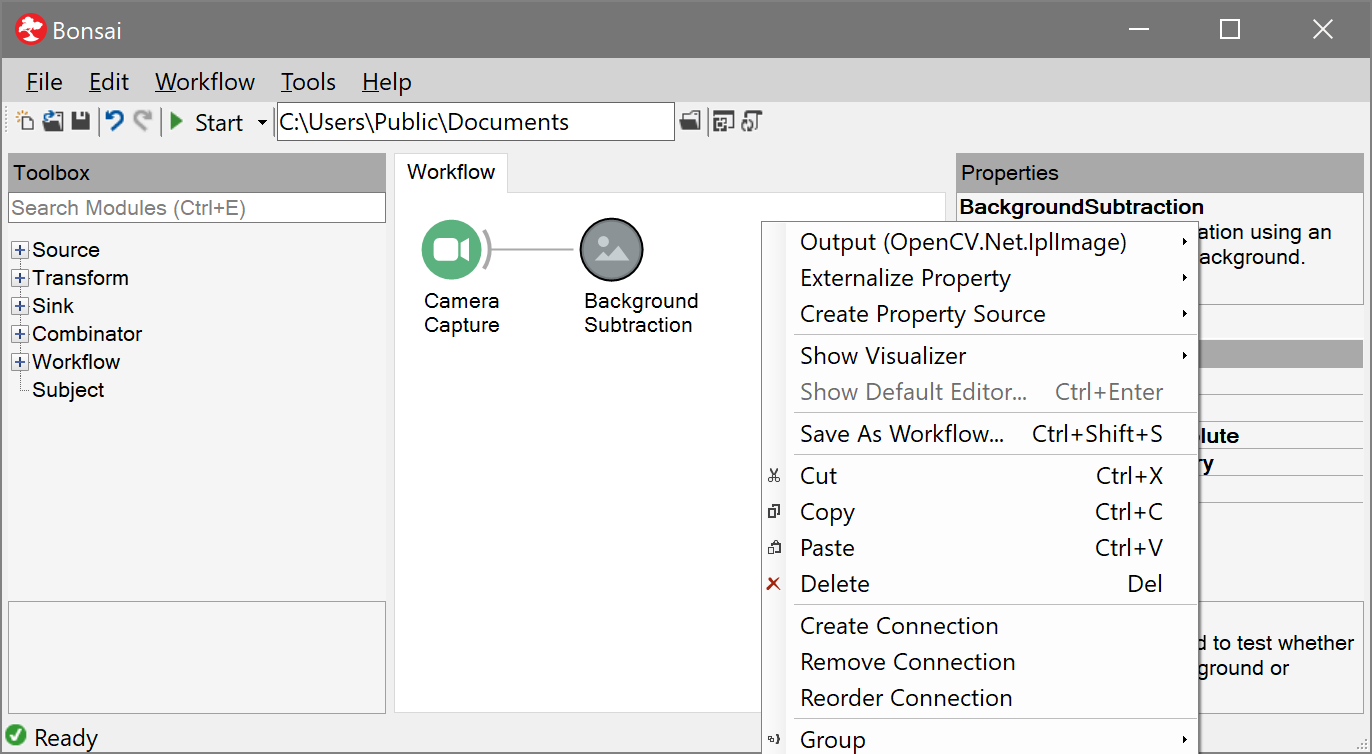
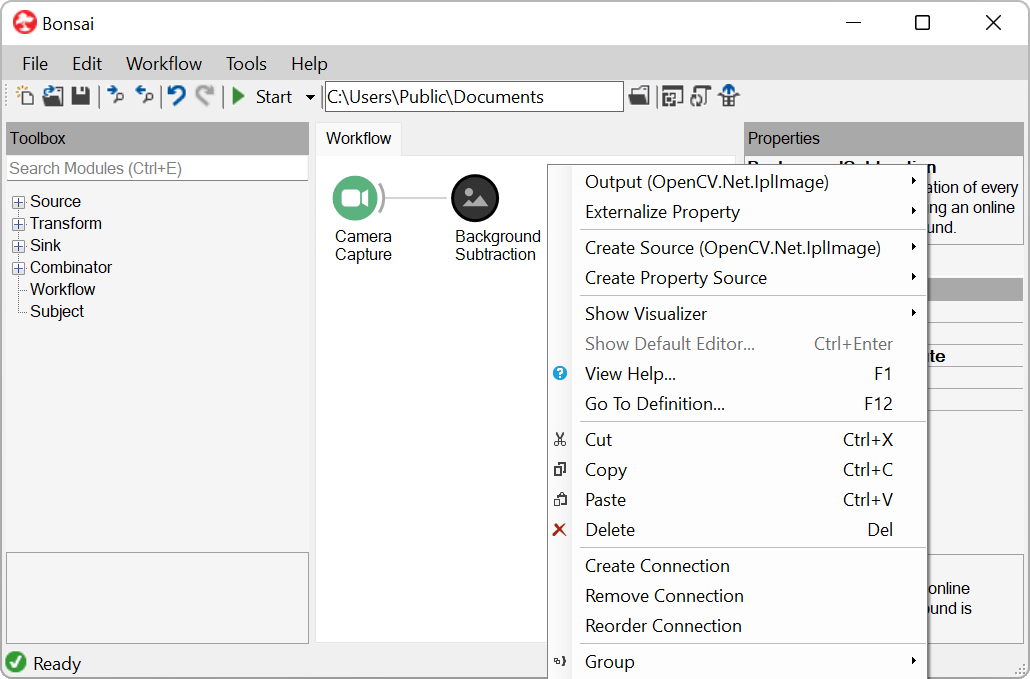
Update editor section

Changed region(s): [[0.0, 0.0, 1.0, 1.0], [0.0, 0.9278, 0.3728, 1.0], [0.2796, 0.8041, 0.3107, 0.8351]]

diff --git a/articles/editor.md b/articles/editor.md
@@ -5,13 +5,13 @@ title: "Workflow Editor"
 
 # Workflow Editor
 
-When Bonsai starts you will be taken directly to the workflow editor. This is where you can create, configure, and run Bonsai workflows. The editor is composed of three main panels: the `Toolbox`, the `Workflow`, and `Properties`. These are described in more detail below.
+When Bonsai starts you will be taken directly to the workflow editor. This is where you can create, configure, and run Bonsai workflows. The editor is composed of three main panels: the [`Toolbox`](#toolbox), the [`Workflow`](#workflow), and [`Properties`](#properties). These are described in more detail below.
 
 ![The Bonsai workflow editor](~/images/editor.png)
 
 ## Toolbox
 
-The `Toolbox` allows you to search for available Bonsai operators to place in the workflow. The listing is organized into five main categories:
+The `Toolbox` allows you to search for available operators to place in the workflow. The listing is organized into six main categories:
 
 | Category                                        | Description                                           |
 | :---------------------------------------------: | ----------------------------------------------------- |
@@ -20,71 +20,83 @@ The `Toolbox` allows you to search for available Bonsai operators to place in th
 | ![Sink](~/images/language-sink.svg)             | save data or trigger external outputs                 |
 | ![Combinator](~/images/language-combinator.svg) | manage control flow or synchronize parallel inputs    |
 | ![Workflow](~/images/language-workflow.svg)     | reusable workflow fragments stored in `.bonsai` files |
+| ![Subject](~/images/language-subject.svg)       | access named event streams defined in the workflow    |
 
-Operators inside each major category are further organized by package namespaces. These namespaces come from the packages you have installed at any given moment. The name of each namespace can give you a hint about what kind of operations or devices can be accessed inside (e.g., the `Audio` namespace provides access to audio capture devices or WAV file readers).
+Operators inside each major category are further organized by namespaces linked to the packages you have installed. The name of each namespace can give you a hint about what kind of operations or devices can be accessed inside (e.g. the [`Audio`](xref:Bonsai.Audio) namespace provides access to audio capture devices or WAV file readers).
 
 Once you have found which operator you want to insert, you can place it by double-clicking, dragging it to the workflow or alternatively right-clicking and selecting a specific placement option. See the [Commands and Shortcuts](#commands-and-shortcuts) section for more information.
 
 ### Search Operators
 
-Another way to quickly find operators is to use the `Search` textbox. Any text inserted here is matched against available operator or namespace names for a match in any order. This means you can search not only for a specific operator name but also by category names to locate all the operators in a namespace (e.g., try typing `Arduino`).
+Another way to quickly find operators is to use the `Search` textbox. Any text inserted here is matched against available operators, subjects, or namespaces for a match in any order. This means you can search not only for a specific operator name but also by category names to locate all the operators in a namespace (e.g. try typing `Arduino`).
 
-> [!Note]
-> You can also directly type and search for operator names when the `Workflow` panel has the input focus. This allows you to simply start typing an operator name and directly select which operator you want with the up/down arrow keys. Once you have the right operator, press the `Enter` key to place it. You can repeat the process multiple times to very quickly chain a sequence of operators.
+> [!Tip]
+> You can directly type and search for operator names when the `Workflow` panel has the input focus. This allows you to simply start typing an operator name and directly select which operator you want with the up/down arrow keys. Once you have the right operator, press the `Enter` key to place it. You can repeat the process multiple times to very quickly chain a sequence of operators.
+
+Another useful function of the `Search` textbox is to find existing instances of the selected toolbox operator in the workflow. Once you select an operator in the toolbox, you can use the `Find Next` or `Find Previous` commands to jump into the next instance of the operator, subject, or workflow extension, starting from the current cursor position.
+
+> [!Tip]
+> You can browse through the reference documentation to learn more about each operator in the `Toolbox` by pressing `F1` or selecting `View Help` from the context menu.
 
 ## Workflow
 
-The `Workflow` panel is where you place reactive operators to create data processing pipelines or other asynchronous computations. Each operator in Bonsai is represented by a circular node. Nodes can be connected together, forming a directed feedforward graph from left to right. Connections indicate which operators receive data from which other operators (see the [Introduction](/introduction/) and the [Language Guide](/docs/observables/) for an extended discussion).
+The `Workflow` panel is where you combine different operators together to create data processing pipelines. Each operator is represented by a circular node. Nodes can be connected together, forming a directed feedforward graph from left to right. Connections going into a node indicate which operators that node subscribes to (see the [Language Guide](xref:observables) for an extended discussion).
 
-The most useful action to learn your way around the `Workflow` panel is right-clicking. This will bring up the context menu for the specific node you selected, or a list of possible actions you can do with the current selection:
+The most useful action to learn your way around the `Workflow` panel is right-clicking. This will bring up the context menu for the specific node you selected, or a list of possible actions you can do with the current selection.
 
 ![The workflow context menu](~/images/editor-contextmenu.png)
 
-If only one node is selected, the `Output` menu item will display the type of the elements emitted in the observable sequence of that operator.
+If only one node is selected, the `Output` menu item will display the type of the elements emitted by that operator sequence.
+
+> [!Tip]
+> If the output of an operator is a complex type, you can inspect its public data members. Clicking on any of the sub-items will automatically place a new [`MemberSelector`](xref:Bonsai.Expressions.MemberSelectorBuilder) operator to pick the specified data member from the output of the node.
+
+The context menu also allows you to externalize public properties of the operator as explicit nodes in the workflow using the `Externalize Property` drop-down menu. Once a property is externalized, you can connect other nodes in the workflow to it so you can change the value of the property dynamically (see the [Property Mapping](xref:property-mapping) section for more information).
+
+Finally, it is possible to group nodes, both for organizing large workflows, and to define [higher-order operators](xref:higher-order). The most basic grouping is the [`GroupWorkflow`](xref:Bonsai.Expressions.GroupWorkflowBuilder) which allows you to encapsulate a workflow fragment inside a single node. Any group can be assigned a `Name` for ease of reference and a `Description` for documentation. Any named properties which are externalized from nodes inside the group will be shown as properties of the group node itself on the top-level workflow.
 
 > [!Note]
-> If the output of an operator is a complex type, you can also inspect its public data members from the context menu. Clicking on any one of these members will automatically place a new `MemberSelector` transform which selects that member from the output.
-
-The context menu also allows you to externalize public properties of the operator into explicit nodes in the workflow, so you can change their values dynamically based on the output of other nodes (see the [Property Mapping](/docs/property-mapping/) section for more information).
-
-Finally, it is possible to group nodes, both for organizing large workflows, and to define [higher-order operators](/docs/higher-order/). The most basic grouping is the nested workflow which allows you to encapsulate a workflow fragment inside a single node. This `NestedWorkflow` can be assigned a `Name` and `Description` for ease of reference. Any named properties which are externalized by nodes in the group will be shown as properties of the `NestedWorkflow` so you can literally treat the group as a single node.
-
-> [!Note]
-> You can use `NestedWorkflow` nodes to document your workflow by adding names and descriptions to individual processing branches. No additional processing cost is incurred by the use of `NestedWorkflow` nodes.
+> You can use `GroupWorkflow` nodes to document your workflow by adding names and descriptions inline with operator chains. These can help readability of a workflow and no additional processing cost is incurred by the use of `GroupWorkflow` nodes.
 
 ### Type Visualizers
 
-Type visualizers allow you to inspect online the data that is generated by any specific node during the execution of the workflow. They are useful to debug the result of image or signal processing operations or to debug the behaviour of the workflow itself.
+Type visualizers allow you to inspect online the data that is generated from a specific node during the execution of the workflow. They are useful to visualize the result of specific operations or to debug the behaviour of the workflow itself.
 
 ![Example of image type visualizers](~/images/editor-visualizers.png)
 
 Types can have more than one visualizer. You can choose the active type visualizer for a specific operator by right-clicking on the corresponding node and selecting from the available options in the `Show Visualizer` menu.
 
-For example, image streams can be displayed on the screen using the default image visualizer, but you can also select the text visualizer to access image parameters such as size, or pixel bit depth. New visualizers can be added by installing new packages.
+For example, image streams can be displayed on the screen using the default image visualizer, but you can also select the text visualizer to inspect image parameters such as size, or pixel bit depth. New visualizers can be added by installing new packages.
 
-If you leave one or more visualizers open when you stop the workflow, Bonsai will memorize the position and size of each active window. When you run the workflow again, the same visualizer windows will be opened following the memorized layout. Bonsai stores these settings in a `.layout` file which is saved side by side with the workflow so they will persist between editor sessions.
+If you leave one or more visualizers open when you stop the workflow, the editor will memorize the position and size of each active window. When you run the workflow again, the same visualizer windows will be opened following the memorized layout. These settings are stored in a `.layout` file which is saved side by side with the workflow so they will persist between editor sessions.
 
-> [!Note]
+> [!Tip]
 > Many visualizers allow you to access more detailed information or advanced configuration parameters by right-clicking on the visualizer window.
 
-### Snippets
+### Workflow Extensions
 
-You can create and save workflow snippets by selecting one or more nodes and clicking the `Save Snippet As...` button in the context menu.
+You can create and save workflow extensions by selecting one or more nodes and clicking the `Save Workflow As...` button in the context menu.
 
-Snippets are a powerful way to reuse common workflow patterns across projects. When you save a new snippet file it will immediately show up in the `Toolbox` panel for placement. Placing a snippet is equivalent to copying the workflow fragment stored in the snippet file into your current workflow.
+Workflow extensions are a powerful way to reuse common workflow patterns across a large project. When you save a new extension it will immediately show up in the `Toolbox` panel for placement. Placing a workflow extension will create a new [`IncludeWorkflow`](xref:Bonsai.Expressions.IncludeWorkflowBuilder) operator pointing to the saved workflow. You can place an extension multiple times in the same workflow.
 
-It is possible to organize snippets into folders so you can search them by keyword, similar to the role of namespaces found in compiled Bonsai packages.
+> [!Tip]
+> Like other groups, any named properties which are externalized from nodes inside the `IncludeWorkflow` will be shown as properties of the include node itself. These properties can have different values across different instances of the same workflow extension, and will be saved as part of the top-level workflow.
+
+All included workflow extensions are read-only, meaning that you cannot change the internal structure of the extension once it is loaded into the workflow, only its properties. If you want to change the implementation of the extension you need to first `Ungroup` the `IncludeWorkflow` operator. This will make a copy of the included workflow and place it inside a [`GroupWorkflow`](xref:Bonsai.Expressions.GroupWorkflowBuilder). From there you will be able to modify the internal implementation at will. After you have changed the structure, you can save the extension again using `Save Workflow As...`.
+
+> [!Warning]
+> When you change the structure of an included workflow and save it over the original file, all references to that workflow extension will be automatically reloaded and updated. This ensures that all references to the same extension remain consistent throughout.
 
 ## Properties
 
-Each Bonsai operator exposes a set of configuration properties that parameterize the operator's behaviour (e.g., the `Timer` operator exposes the period between generated values, whereas a `Threshold` on images exposes the brightness cutoff value applied to individual pixels).
+Each operator exposes a set of configuration properties that parameterize the operator's behaviour (e.g., the [`Timer`](xref:Bonsai.Reactive.Timer) operator exposes the period between generated values, whereas an image [`Threshold`](xref:Bonsai.Vision.Threshold) exposes the brightness cutoff value applied to individual pixels).
 
 The `Properties` panel will display all the configuration properties which are available for the currently selected operator. A summary description of the currently selected property can be found in the textbox at the bottom of the panel. Similarly, a description of the behaviour of the currently selected operator itself is shown at the top of the panel.
 
 Most properties can be configured simply by changing the text value in the corresponding row of the property grid. Some properties have further specialized editors which can be accessed by clicking the drop-down or dialog button which will be displayed to the right of the property text.
 
 > [!Note]
-> Some operators have even more specialized editor windows such as camera configuration dialogs or media player controls. If such property pages exist for the currently selected operator, the small `Property Pages` button above the property grid will become active.
+> Some operators have even more specialized editor windows such as camera configuration dialogs or media player controls. If such property pages exist for the currently selected operator, the small `Property Pages` button (<img src="~/images/propertypages.png" />) above the property grid will become active.
 
 ## Commands and Shortcuts
 
